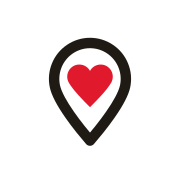
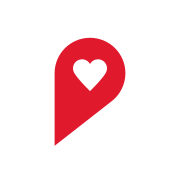
Novo símbolo: o p-pino
Uma gota assimétrica vermelha: a ponta cai sob a borda esquerda e vira a
perna do "p", com o coração vazado no olho. Troca a logo (claro e
escuro), o símbolo, o favicon, os ícones do app e a imagem de
compartilhamento.

Claude-Session: https://claude.ai/code/session_01XhCbgBjF5nn2e5QWbTQumk

Changed region(s): [[0.25, 0.1944, 0.75, 0.8333]]

diff --git a/src/components/ui/basicos.tsx b/src/components/ui/basicos.tsx
@@ -146,7 +146,7 @@ export function Vazio({
 
 /** A assinatura em SVG, com a versão escura no tema escuro. */
 export function Logo({ altura = 32, className = "" }: { altura?: number; className?: string }) {
-  const largura = Math.round((altura * 822) / 217);
+  const largura = Math.round((altura * 806) / 217);
   return (
     <picture className={className}>
       <source media="(prefers-color-scheme: dark)" srcSet="/logo/publike-logo-escuro.svg" />
@@ -156,7 +156,7 @@ export function Logo({ altura = 32, className = "" }: { altura?: number; classNa
 }
 
 export function Simbolo({ altura = 32, className = "" }: { altura?: number; className?: string }) {
-  const largura = Math.round((altura * 147) / 183);
+  const largura = Math.round((altura * 131) / 183);
   return (
     <picture className={className}>
       <source media="(prefers-color-scheme: dark)" srcSet="/logo/publike-simbolo-branco.svg" />
